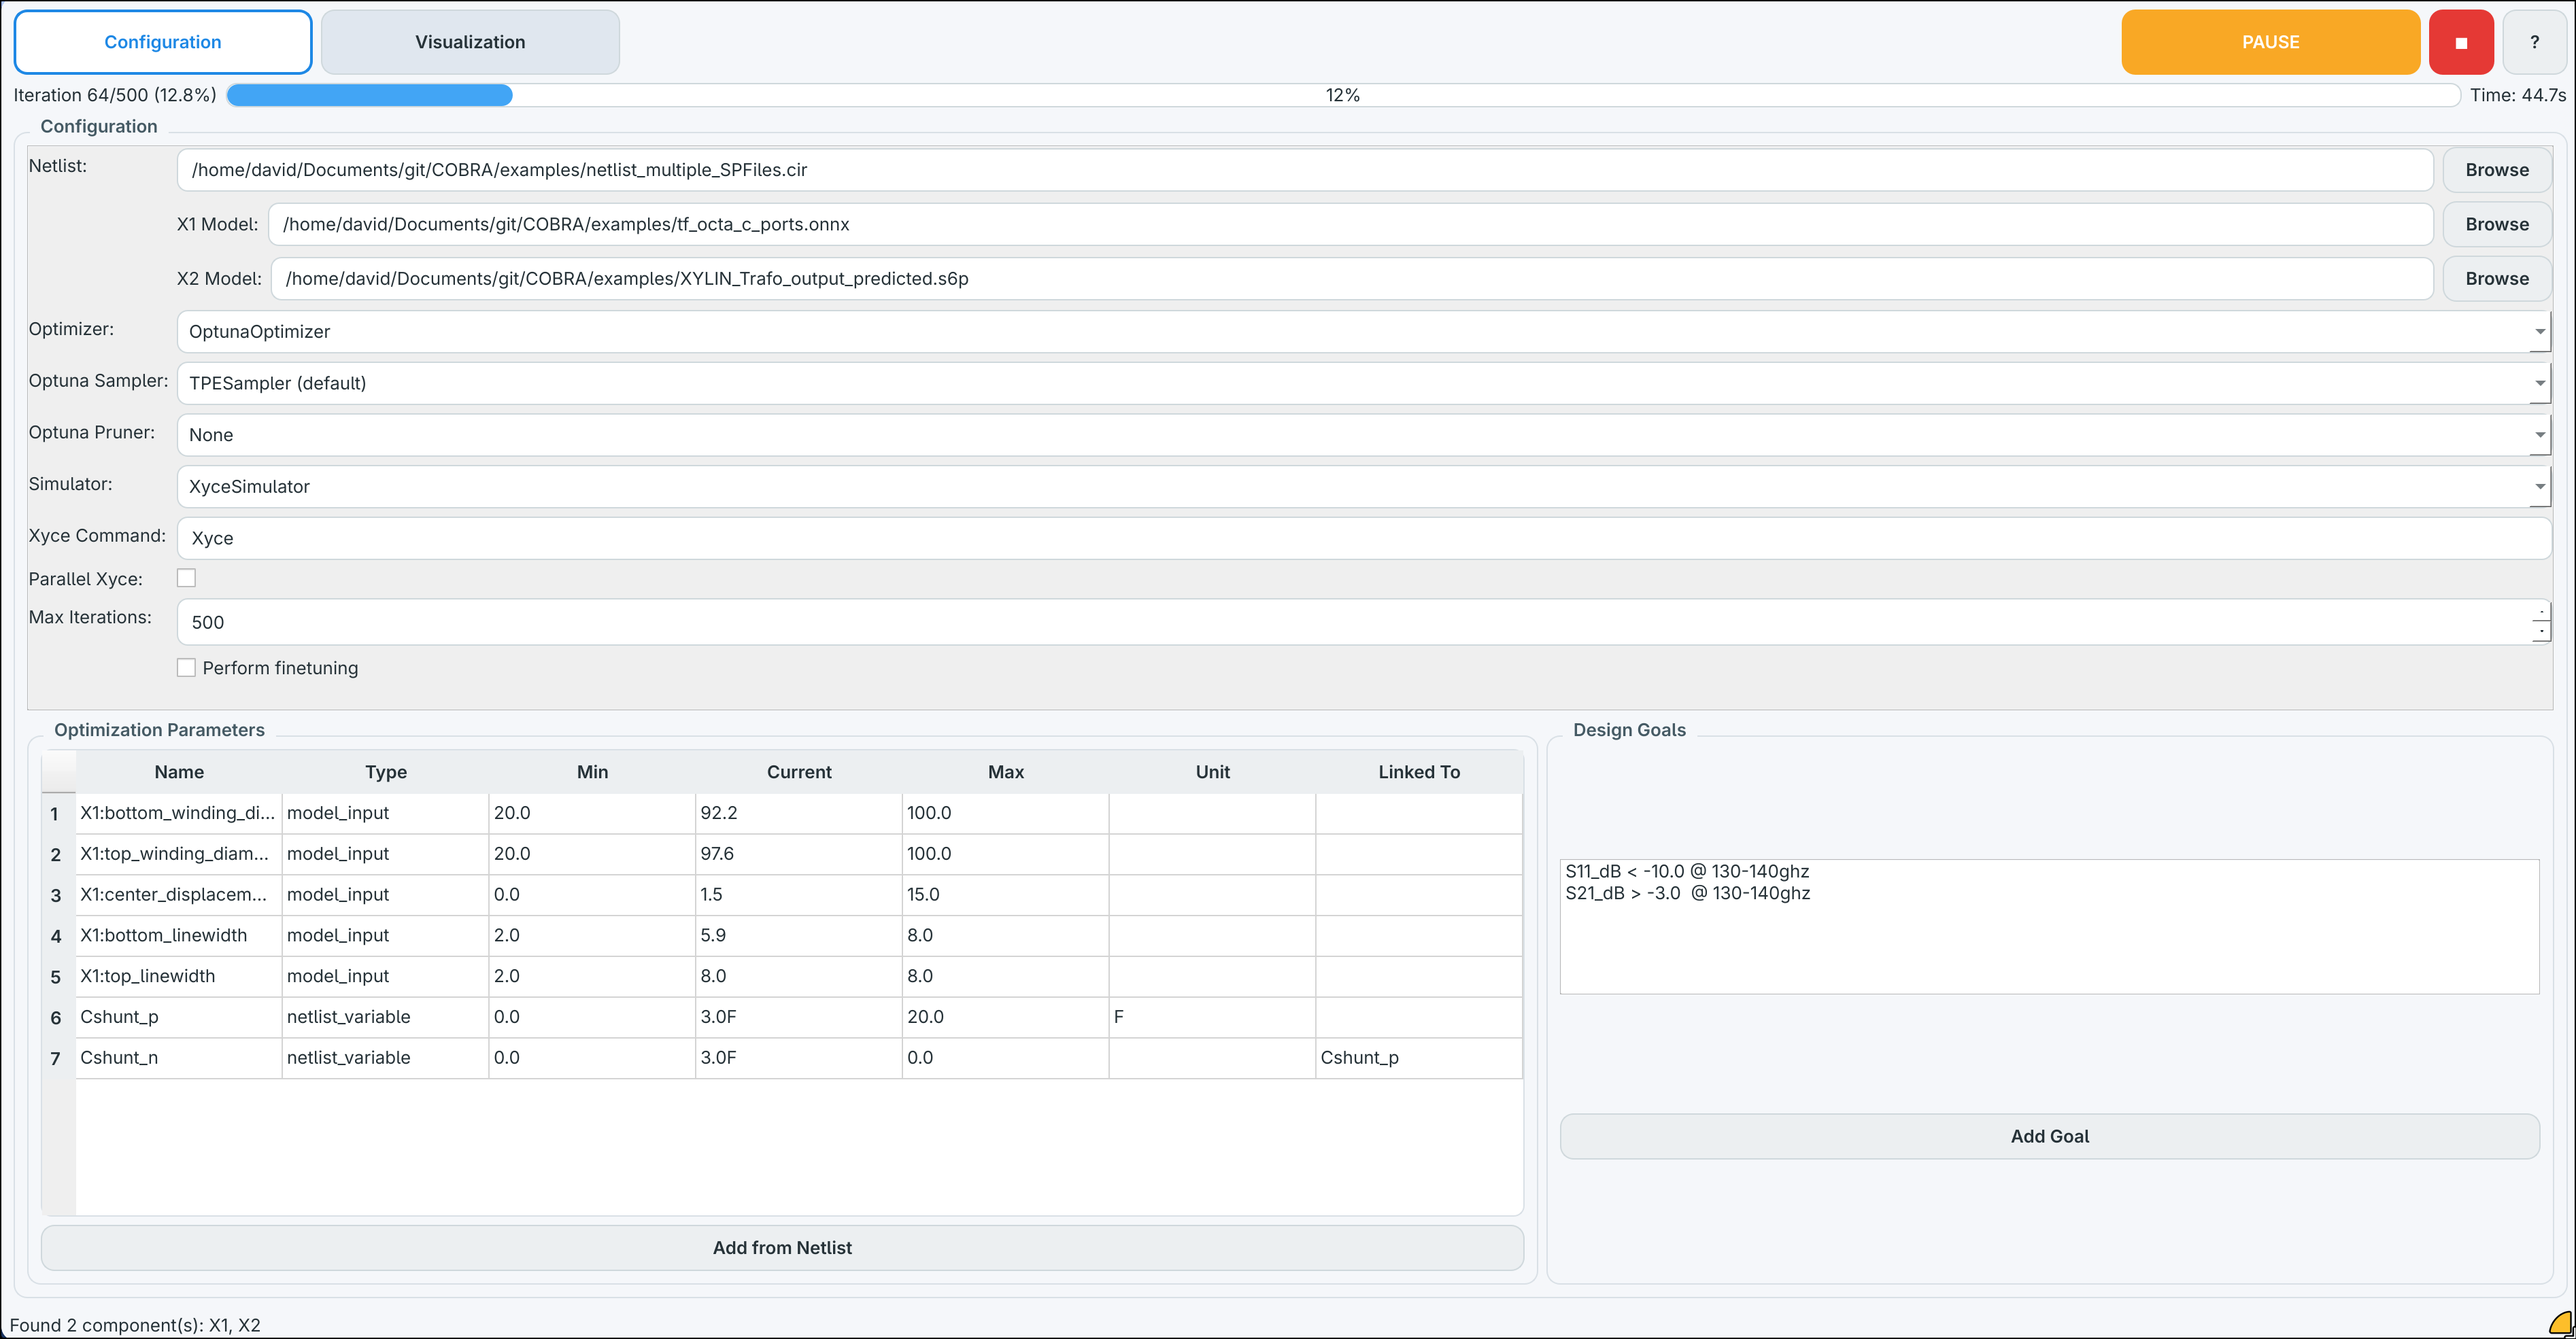
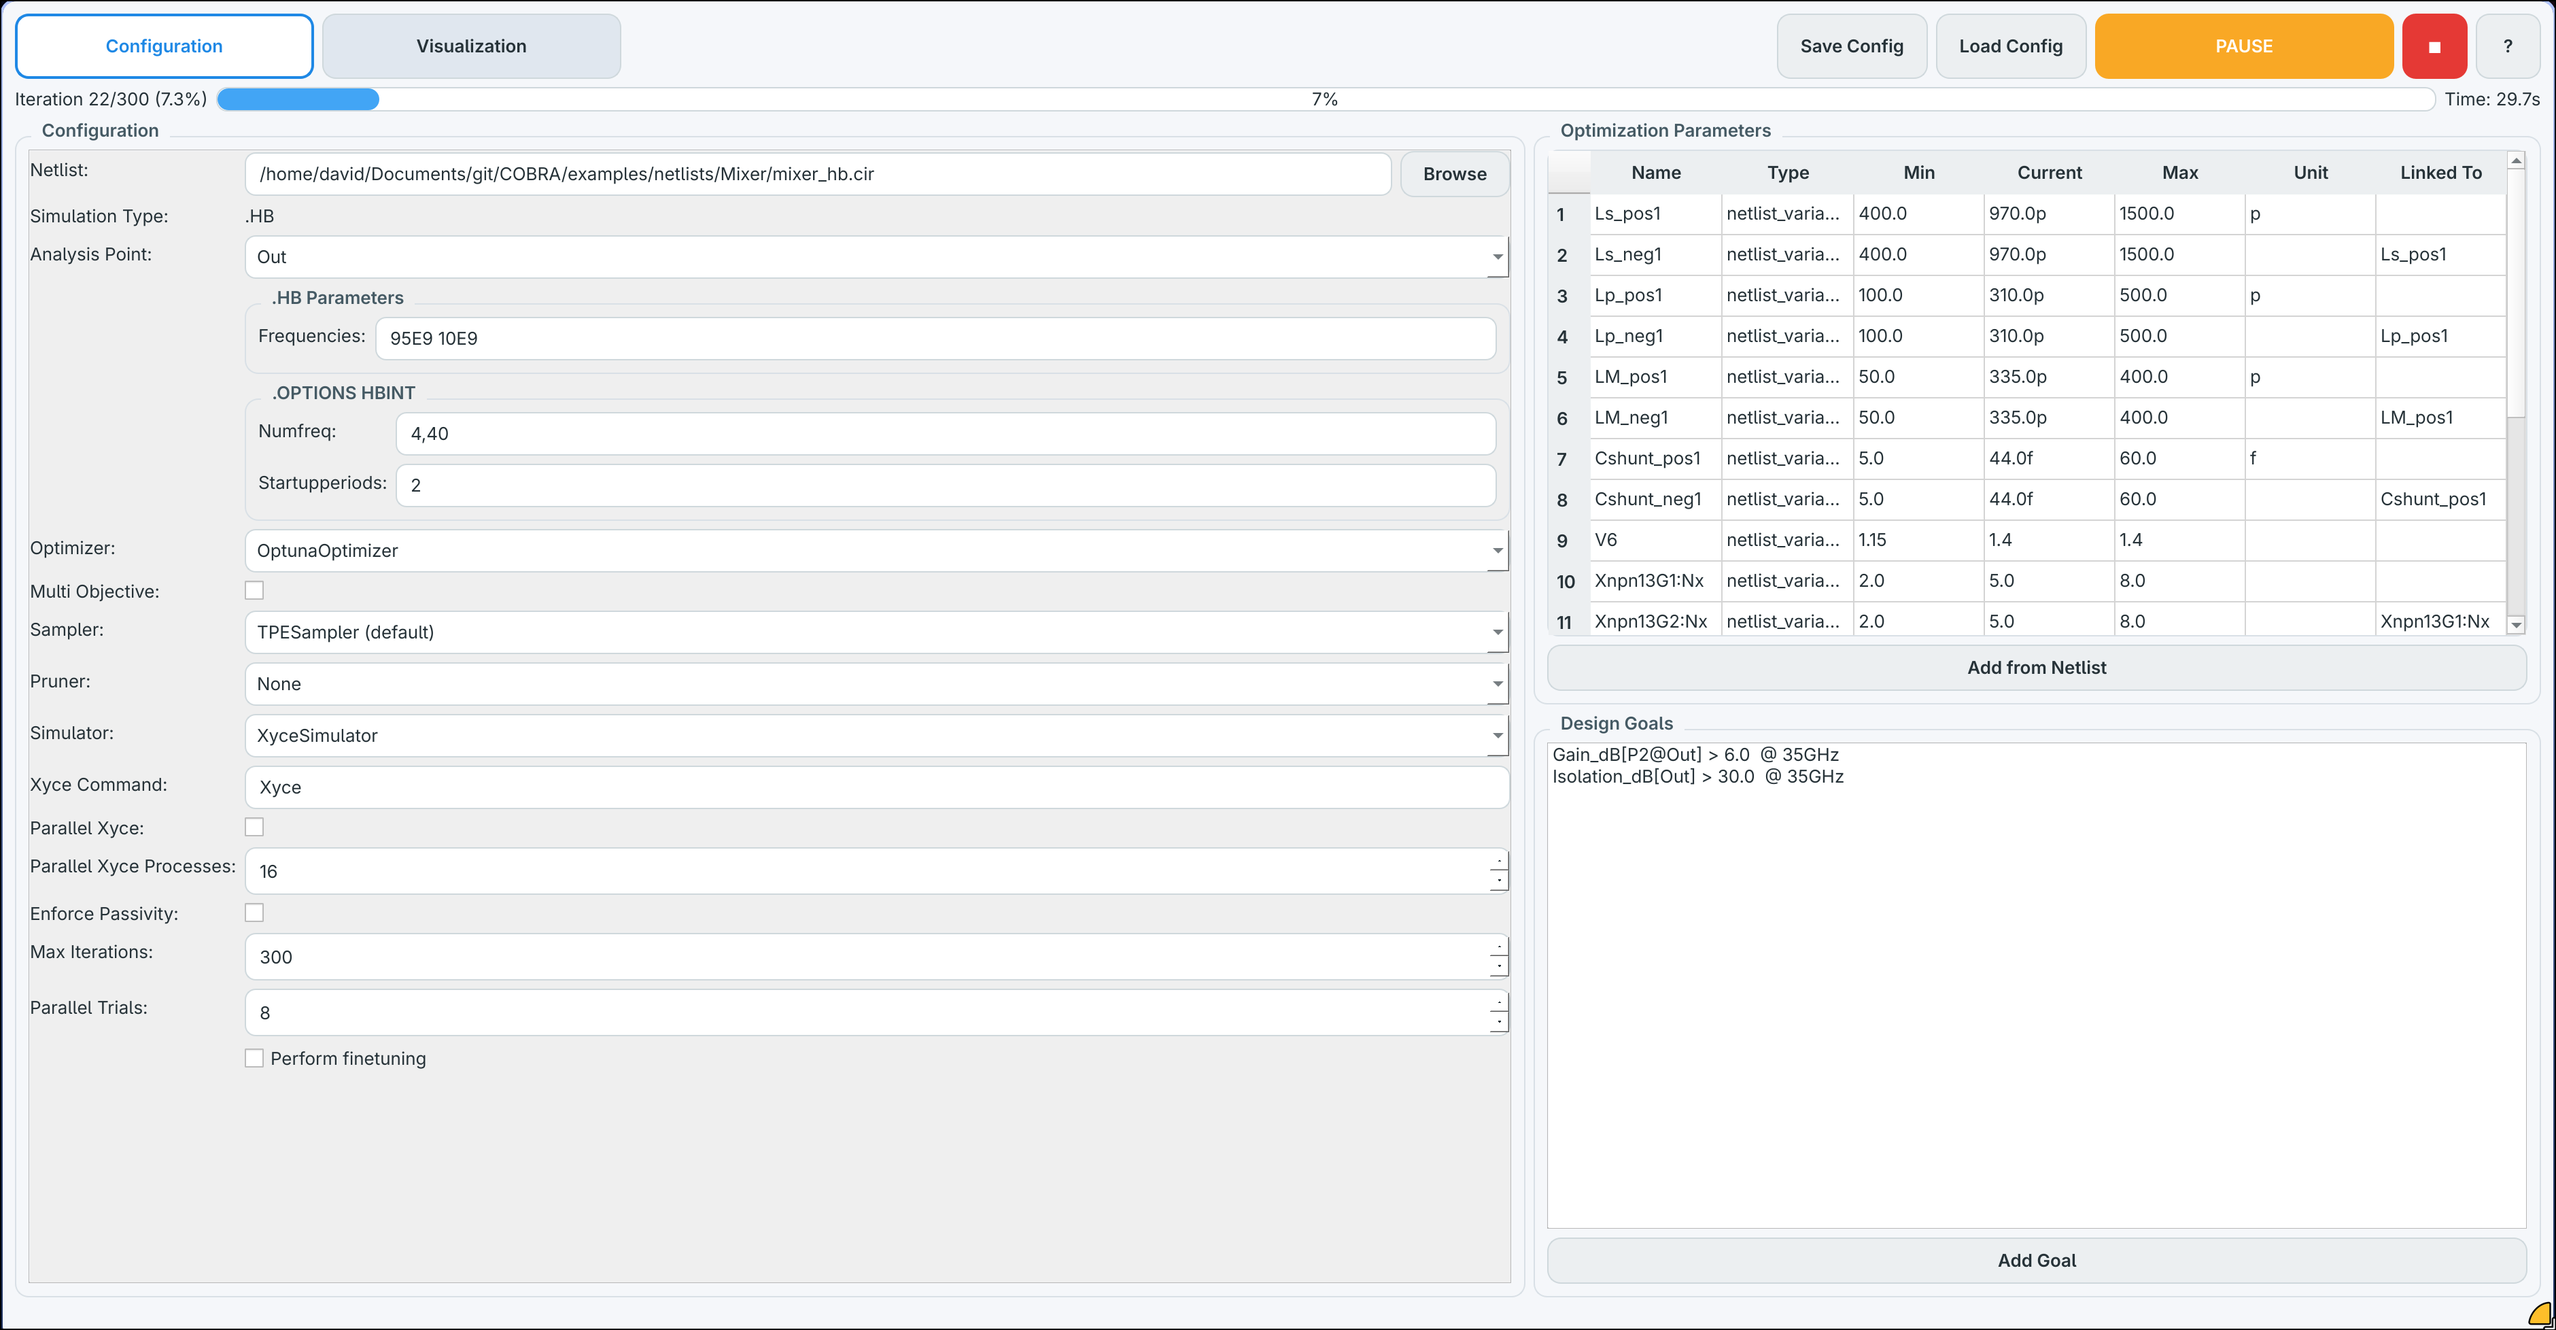
Updated README with new screenshots

diff --git a/README.md b/README.md
@@ -13,15 +13,13 @@ Gianluca Simone\*, David Lurz\*, Martin Grund\*, Fabian Schneider°, Michael Loo
 
 [Paper (Coming Soon)](#cite-this-work) | [Documentation](https://di-passionate.github.io/COBRA/) | [BibTex](#cite-this-work)
 
-> [!NOTE]
-> COBRA is still under active development, and the paper is yet to be released. The current codebase is functional and can be used for experimentation, but we keep adding features, improving documentation, and refining the API. If you encounter any issues or have questions, please [open an issue](https://github.com/DI-PASSIONATE/COBRA/issues) or reach out.
-
-**COBRA** is an optimization framework for RFIC workflows.
-It combines:
+**COBRA** is an optimization framework for RFIC workflows. It combines:
 
 - surrogate-model S-parameter prediction (from [ORCA](https://github.com/DI-PASSIONATE/ORCA)-generated ONNX models or fixed Touchstone SNP files),
 - circuit-level SPICE simulation via Xyce,
-- and goal-driven optimization (Optuna-based).
+- goal-driven optimization (Optuna-based).
+- optional EM fine-tuning (Palace) to ensure accurate results
+- and real-time visualization of optimization progress
 
 You can easily define goals and configurations in the GUI:
 
@@ -40,6 +38,9 @@ COBRA is the optimization/runtime side of the flow.
 - Optional fine-tuning in COBRA can call full-wave EM simulations (Palace) and uses [ORCA](https://github.com/DI-PASSIONATE/ORCA) geometry classes (preset or custom).
 
 In short: [ORCA](https://github.com/DI-PASSIONATE/ORCA) builds the model, COBRA uses it to optimize circuits quickly and can verify/refine with EM fine-tuning.
+
+> [!NOTE]
+> COBRA is still under active development, and the paper is not available online yet. The current codebase is functional and can be used for experimentation, but we keep adding features, improving documentation, and refining the API. If you encounter any issues or have questions, please [open an issue](https://github.com/DI-PASSIONATE/COBRA/issues) or reach out.
 
 ## Installation
 ### Requirements
